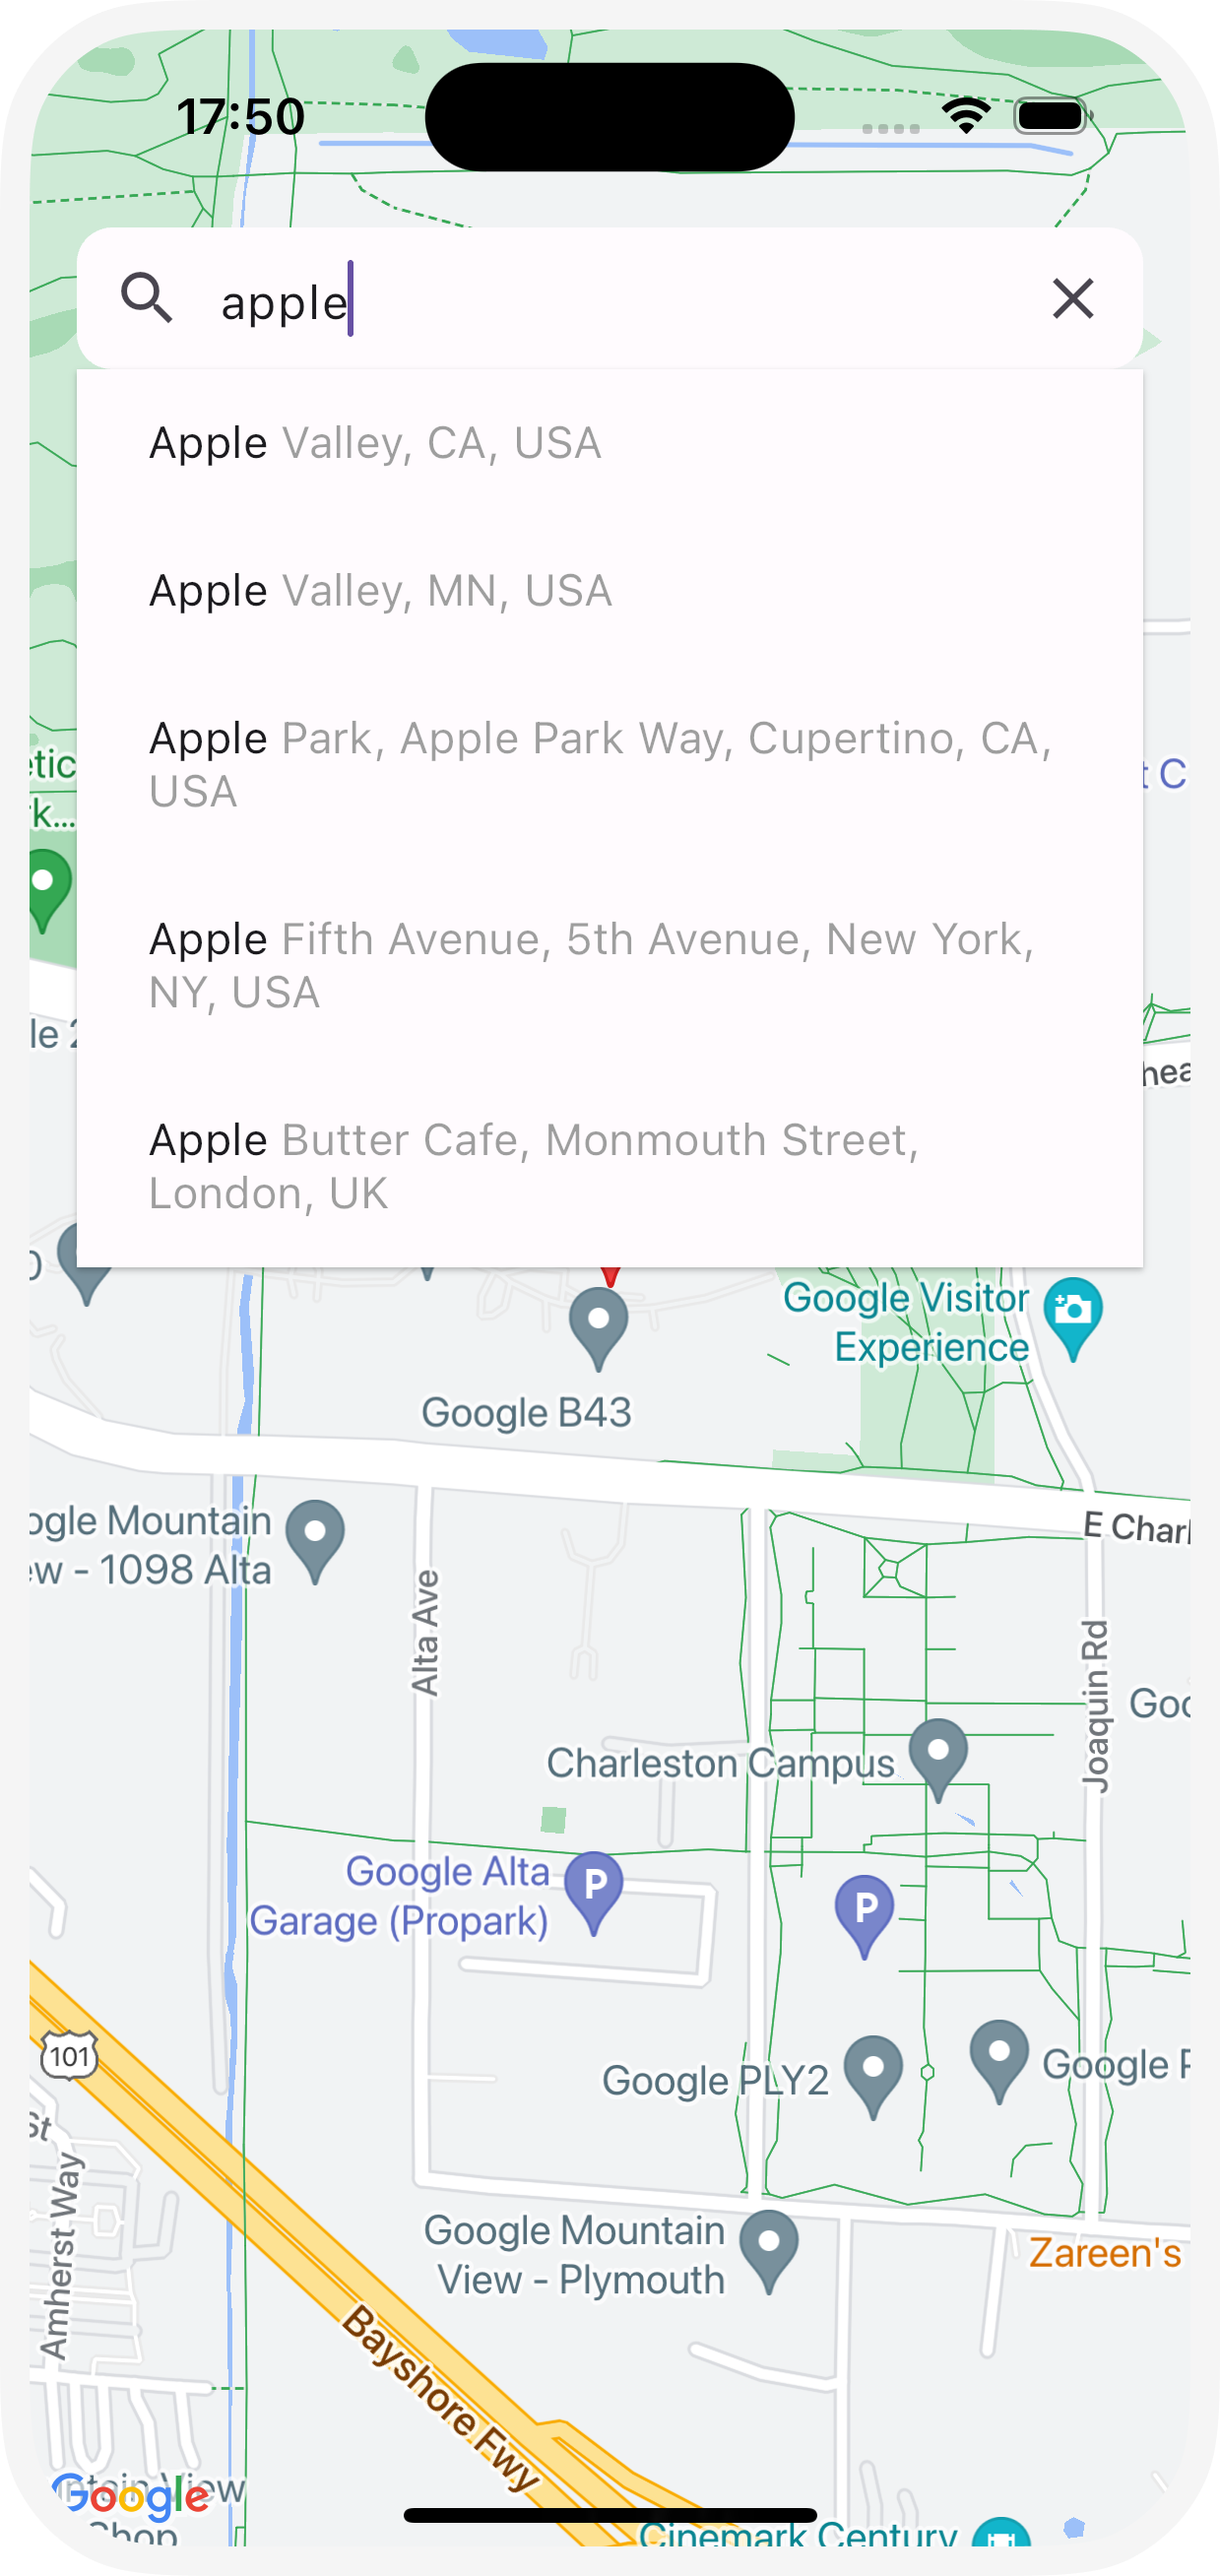
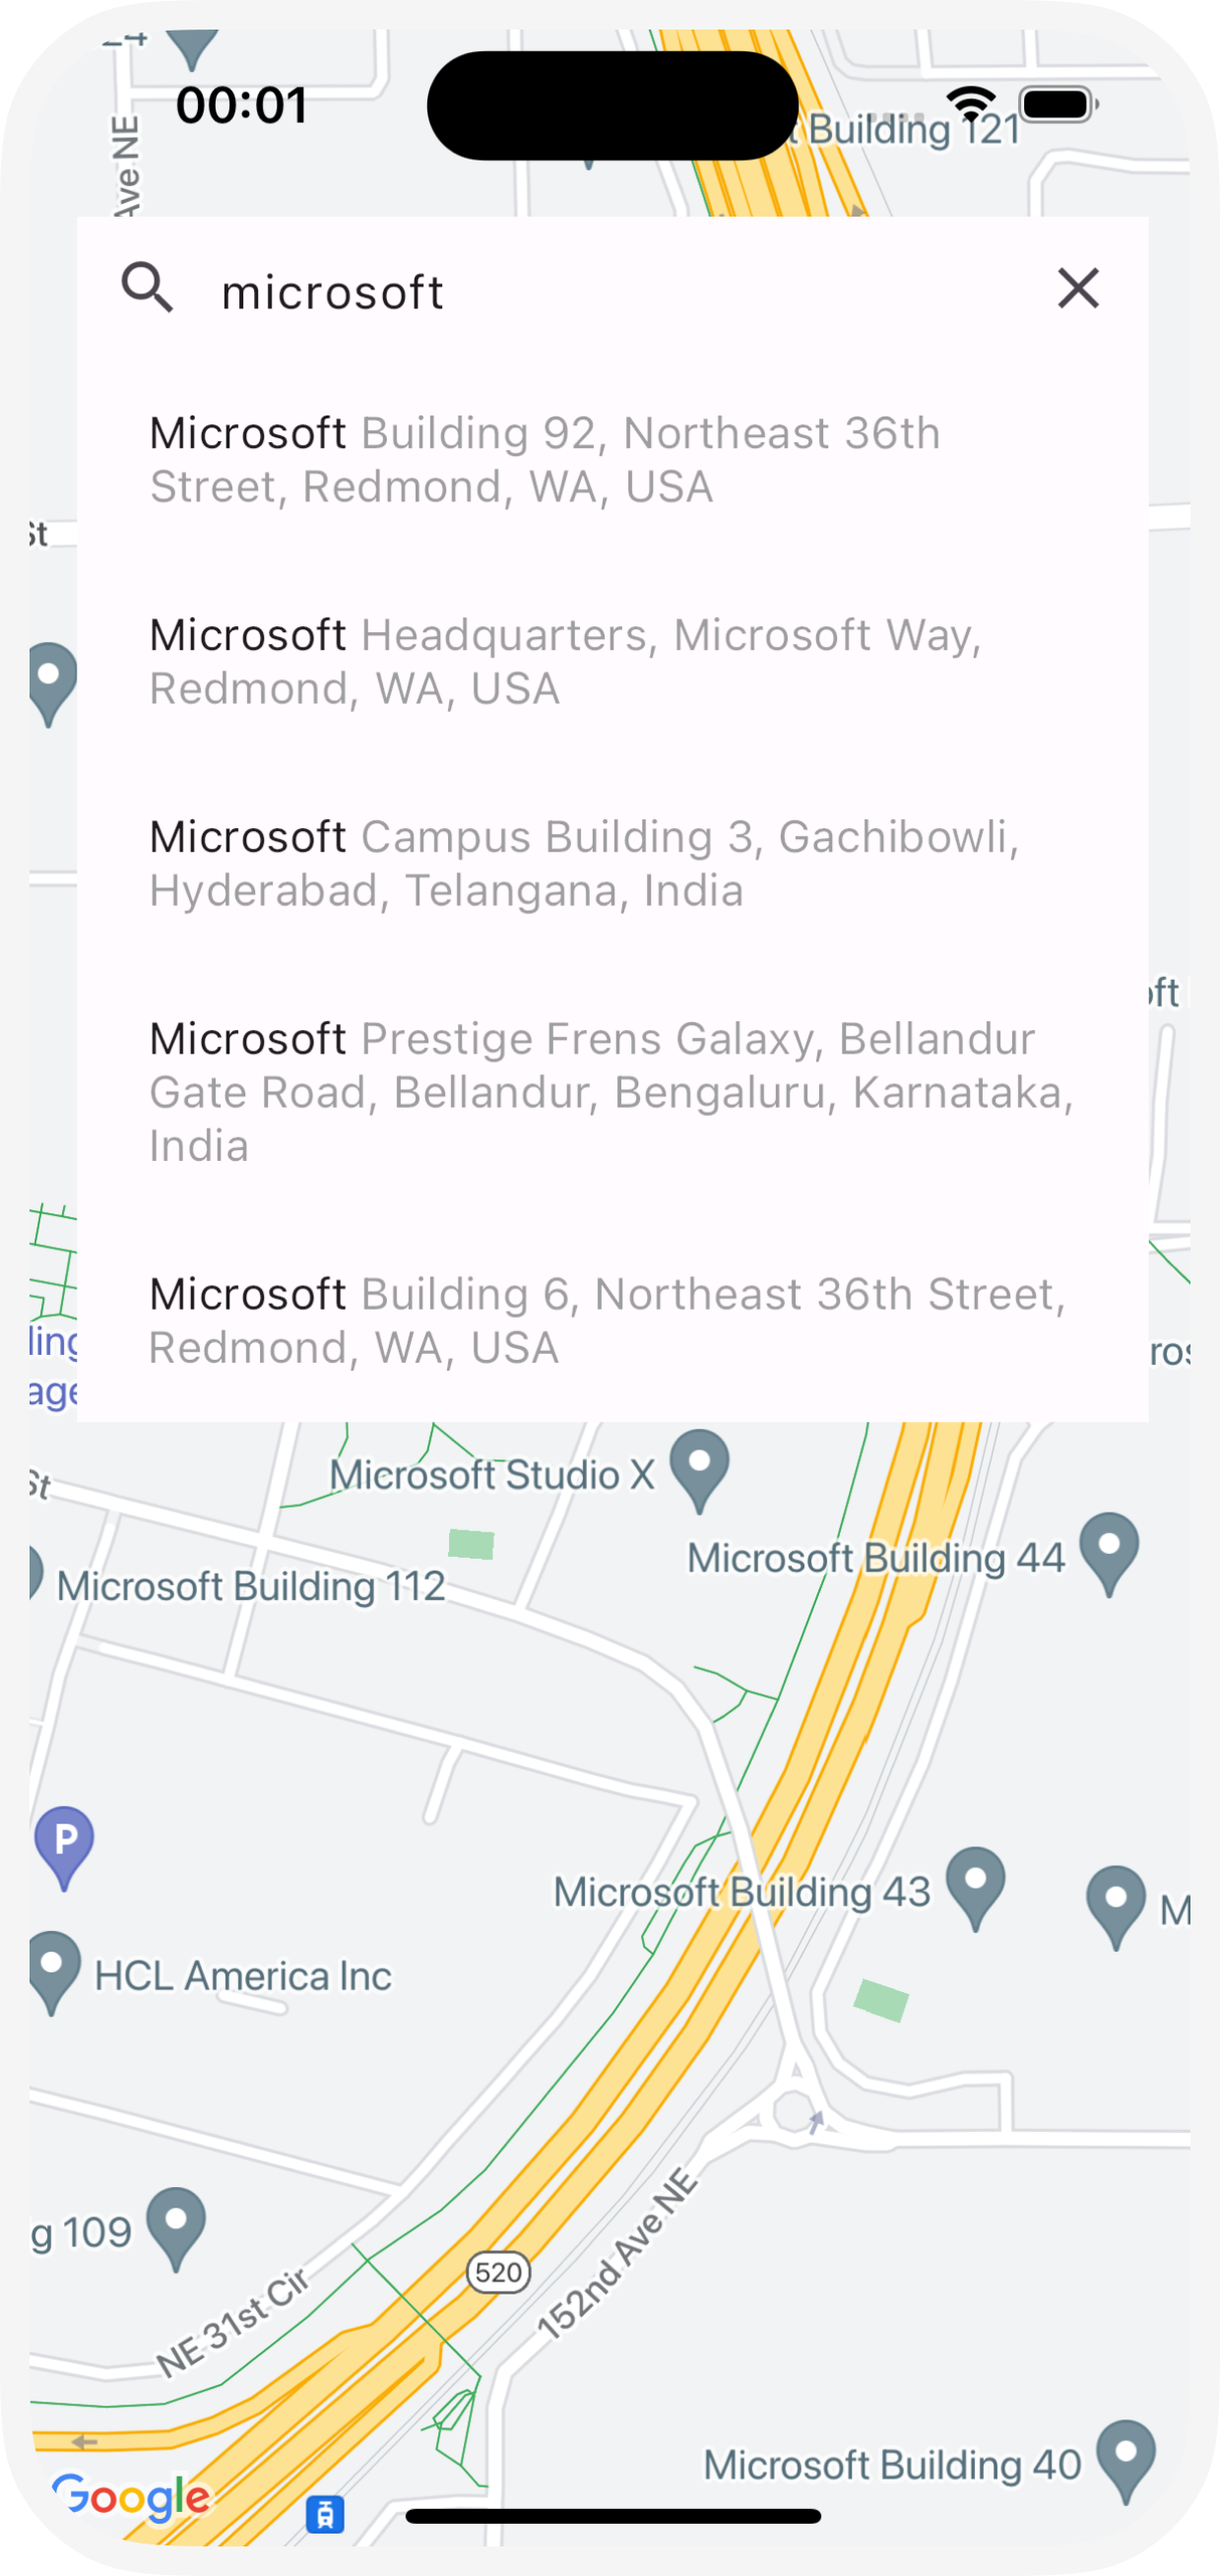
added new screenshots

diff --git a/lib/src/widgets/place_picker.dart b/lib/src/widgets/place_picker.dart
@@ -295,7 +295,7 @@ class PlacePickerState extends State<PlacePicker>
                           ),
                         ),
 
-                      if (widget.myLocationButtonEnabled)
+                      if (widget.myLocationButtonEnabled && !hasSearchTerm)
                         _buildMyLocationButton(),
                     ],
                   ),
